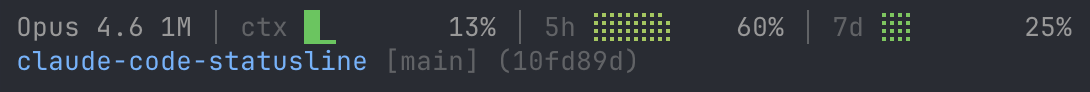
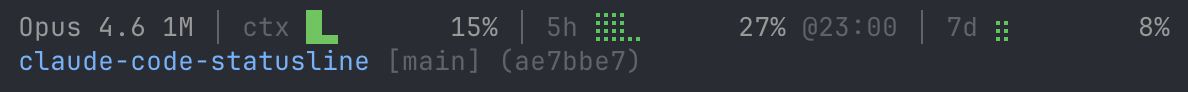
fix: 5hリセット時刻がウィンドウ開始直後に表示されない問題を修正
- elapsed_ratio < 10% の早期リターン時にも5hのリセット時刻を付与
- 通常時のスクリーンショットを差し替え (5hリセット時刻表示あり)
- READMEのレートリミット接近時の説明を簡潔に

diff --git a/statusline.py b/statusline.py
@@ -1,6 +1,6 @@
 #!/usr/bin/env python3
 """Claude Code status line: two-line display with block/braille progress bars."""
-__version__ = '1.1.0'
+__version__ = '1.1.1'
 
 import json
 import os
@@ -96,7 +96,11 @@ def fmt_rate_limit(label, limit_data, window_key):
     elapsed_ratio = elapsed / window if window > 0 else 0
 
     if elapsed_ratio < PACE_THRESHOLD or elapsed <= 0:
-        return fmt_metric(label, used_pct, braille_bar)
+        result = fmt_metric(label, used_pct, braille_bar)
+        if window_key == 'five_hour':
+            reset_local = time.localtime(resets_at)
+            result += f' {DIM}@{time.strftime("%H:%M", reset_local)}{R}'
+        return result
 
     projected = used_pct * window / elapsed
     progress = (elapsed_ratio - PACE_THRESHOLD) / (1 - PACE_THRESHOLD)

diff --git a/README.md b/README.md
@@ -6,7 +6,7 @@
 
 ![screenshot](images/screenshot.png)
 
-レートリミット接近時 (リセット時刻を表示):
+レートリミット接近時:
 
 ![screenshot-ratelimit](images/screenshot-ratelimit.png)
 
